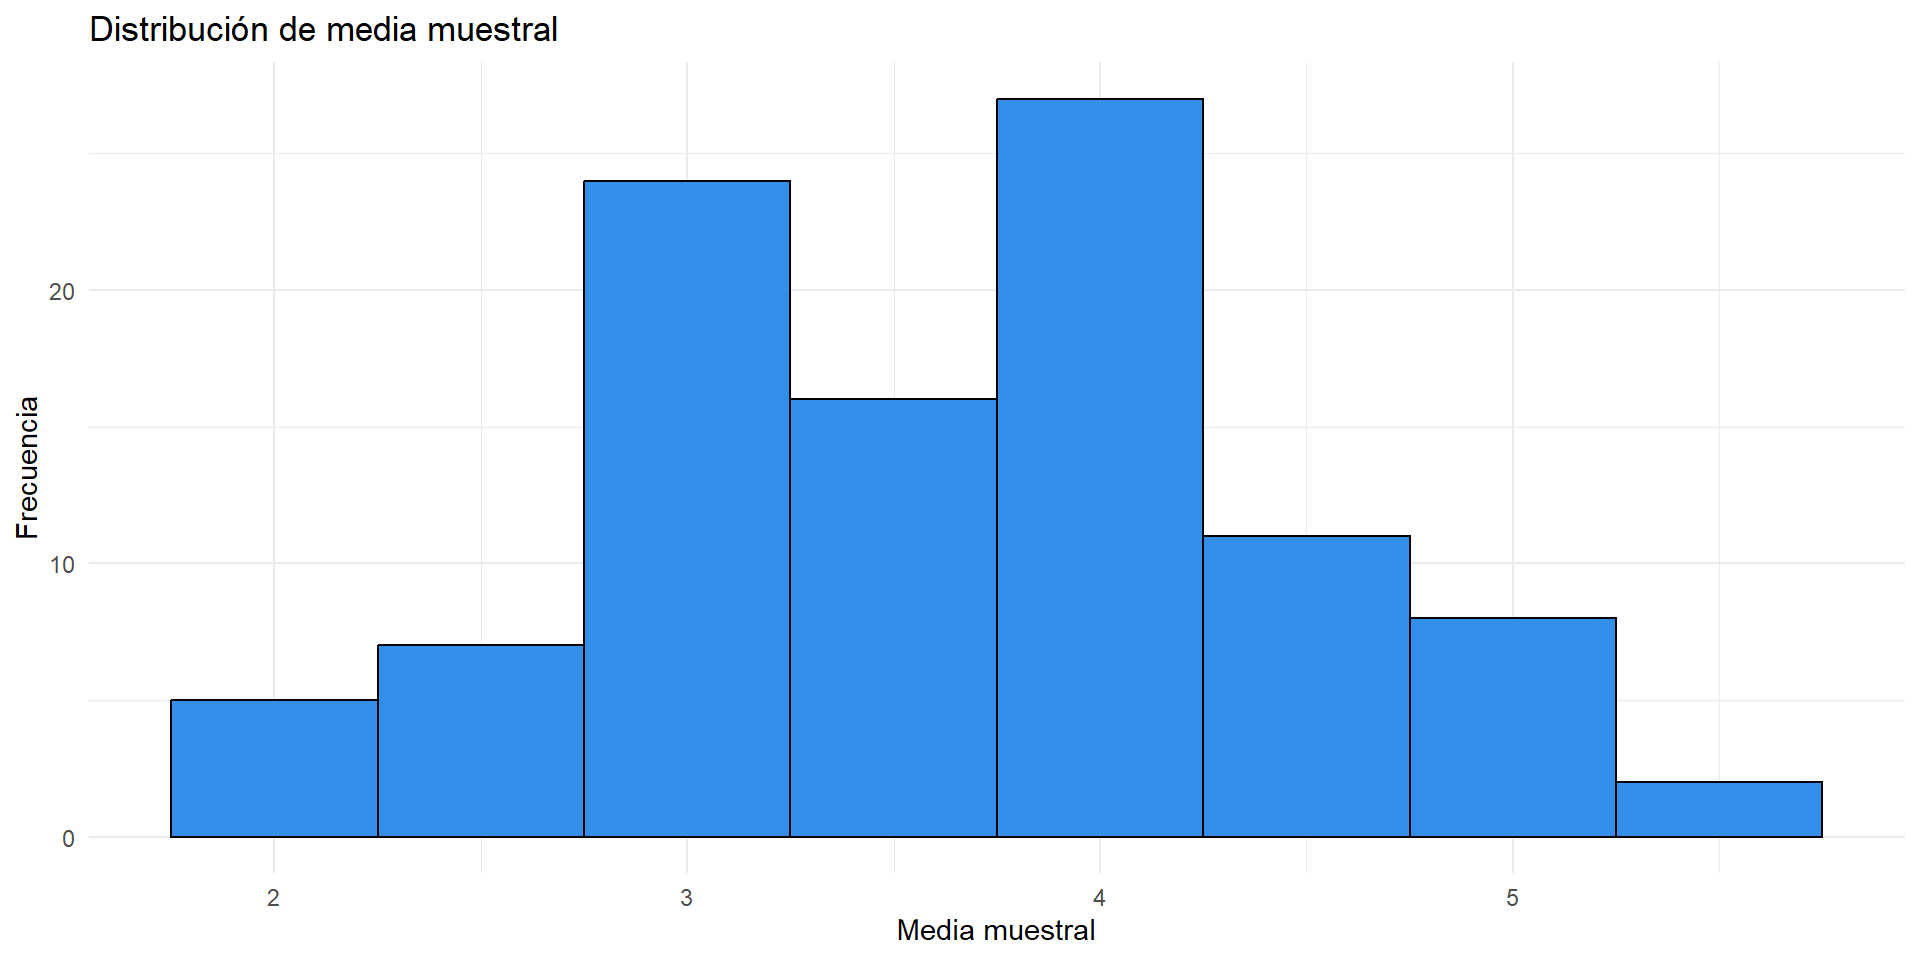
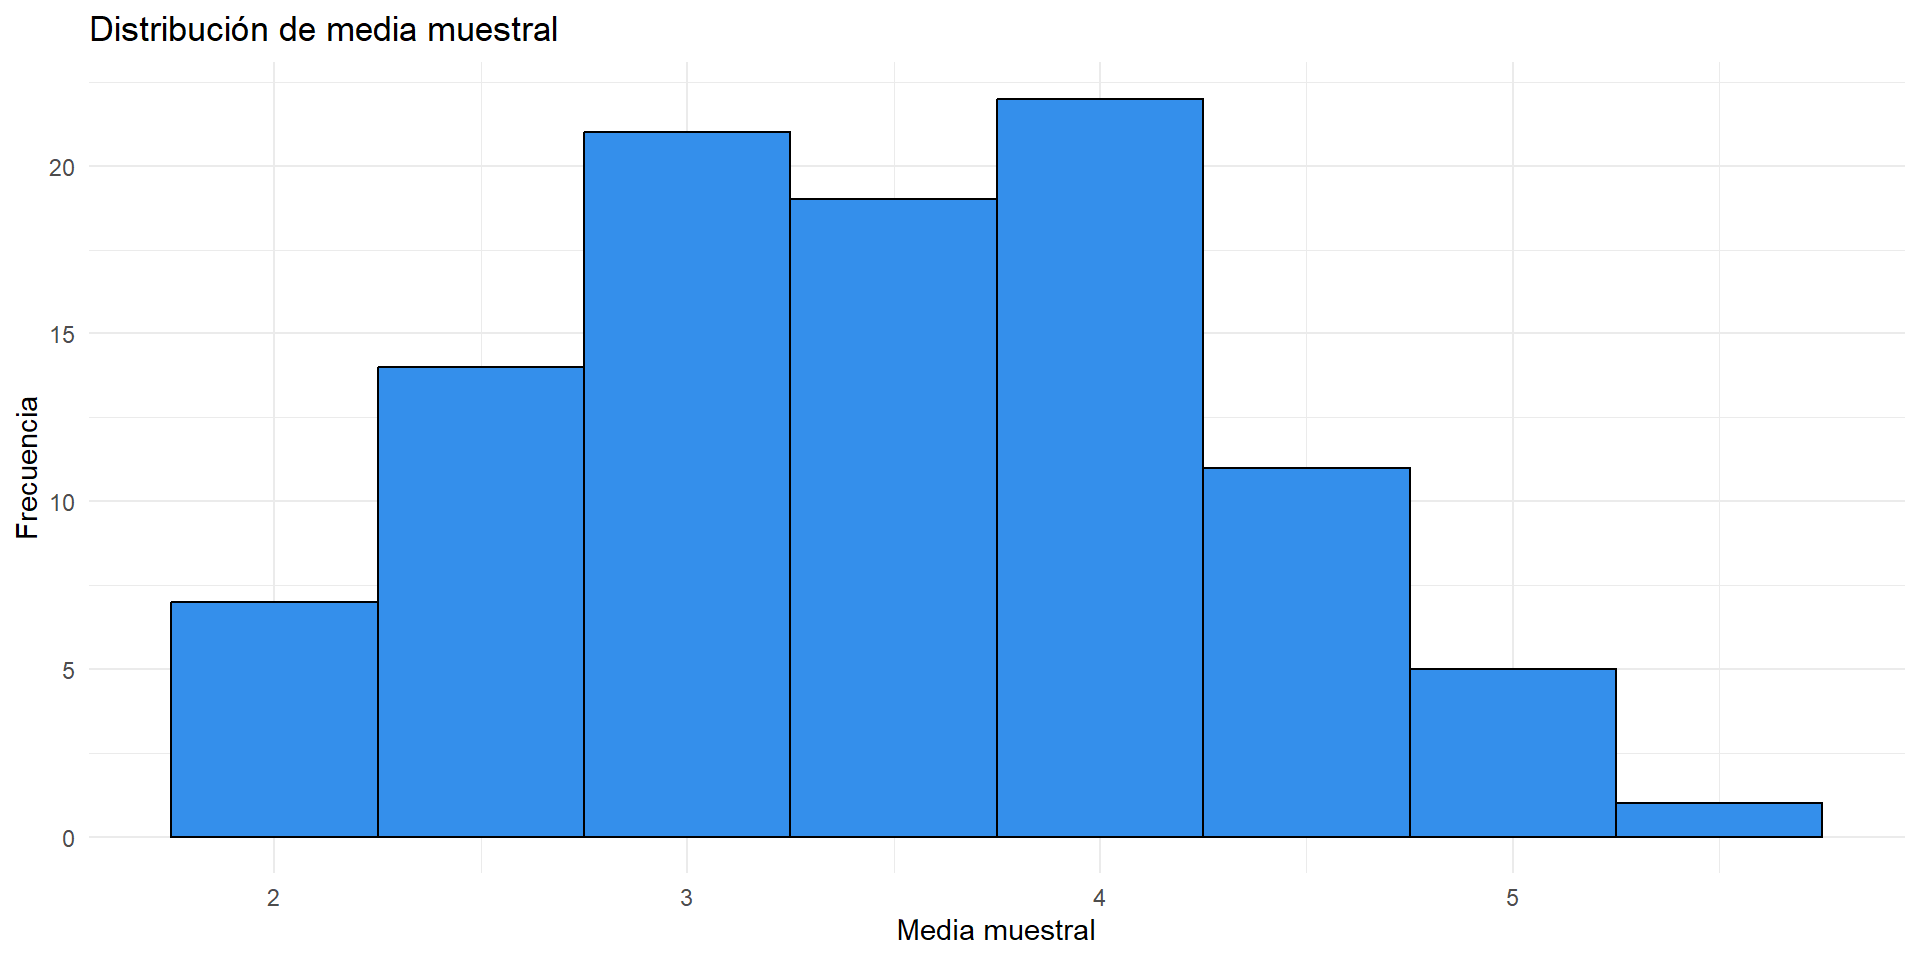
Changing zdistribution to jpg

diff --git a/clase4/prob_zscore.html b/clase4/prob_zscore.html
@@ -637,7 +637,7 @@ Probabilidad, Z-Score y Distribuciones Muestrales
 <div class="column" style="width:50%;">
 <div class="quarto-figure quarto-figure-center">
 <figure>
-<p><img data-src="images/zdistribution.png" style="width:90.0%;height:80.0%"></p>
+<p><img data-src="images/zdistribution.jpg" style="width:90.0%;height:80.0%"></p>
 </figure>
 </div>
 </div><div class="column" style="width:50%;">
@@ -772,18 +772,18 @@ Probabilidad, Z-Score y Distribuciones Muestrales
 <span id="cb1-7"><a href="#cb1-7"></a></span>
 <span id="cb1-8"><a href="#cb1-8"></a>muestra_de_5</span></code><button title="Copy to Clipboard" class="code-copy-button"><i class="bi"></i></button></pre></div>
 <div class="cell-output cell-output-stdout">
-<pre><code>[1] 4 3 2 3 5</code></pre>
+<pre><code>[1] 1 1 3 5 4</code></pre>
 </div>
 <div class="sourceCode cell-code" id="cb3"><pre class="sourceCode numberSource r number-lines code-with-copy"><code class="sourceCode r"><span id="cb3-1"><a href="#cb3-1"></a><span class="do">## Y calculemos su media</span></span>
 <span id="cb3-2"><a href="#cb3-2"></a><span class="fu">mean</span>(muestra_de_5)</span></code><button title="Copy to Clipboard" class="code-copy-button"><i class="bi"></i></button></pre></div>
 <div class="cell-output cell-output-stdout">
-<pre><code>[1] 3.4</code></pre>
+<pre><code>[1] 2.8</code></pre>
 </div>
 <div class="sourceCode cell-code" id="cb5"><pre class="sourceCode numberSource r number-lines code-with-copy"><code class="sourceCode r"><span id="cb5-1"><a href="#cb5-1"></a><span class="do">## Otra manera de calcular la media</span></span>
 <span id="cb5-2"><a href="#cb5-2"></a><span class="do">## de una muestra de 5</span></span>
 <span id="cb5-3"><a href="#cb5-3"></a><span class="fu">sample</span>(dado, <span class="dv">5</span>, <span class="at">replace =</span> <span class="cn">TRUE</span>) <span class="sc">%&gt;%</span> <span class="fu">mean</span>()</span></code><button title="Copy to Clipboard" class="code-copy-button"><i class="bi"></i></button></pre></div>
 <div class="cell-output cell-output-stdout">
-<pre><code>[1] 2.8</code></pre>
+<pre><code>[1] 3.4</code></pre>
 </div>
 </div>
 </div><div class="column" style="width:50%;">
@@ -807,17 +807,17 @@ Probabilidad, Z-Score y Distribuciones Muestrales
 <span id="cb7-7"><a href="#cb7-7"></a></span>
 <span id="cb7-8"><a href="#cb7-8"></a>muestra_de_5</span></code><button title="Copy to Clipboard" class="code-copy-button"><i class="bi"></i></button></pre></div>
 <div class="cell-output cell-output-stdout">
-<pre><code>[1] 3 2 5 5 3</code></pre>
+<pre><code>[1] 4 3 5 6 5</code></pre>
 </div>
 <div class="sourceCode cell-code" id="cb9"><pre class="sourceCode numberSource r number-lines code-with-copy"><code class="sourceCode r"><span id="cb9-1"><a href="#cb9-1"></a><span class="do">## Y calculemos su media</span></span>
 <span id="cb9-2"><a href="#cb9-2"></a><span class="fu">mean</span>(muestra_de_5)</span></code><button title="Copy to Clipboard" class="code-copy-button"><i class="bi"></i></button></pre></div>
 <div class="cell-output cell-output-stdout">
-<pre><code>[1] 3.6</code></pre>
+<pre><code>[1] 4.6</code></pre>
 </div>
 <div class="sourceCode cell-code" id="cb11"><pre class="sourceCode numberSource r number-lines code-with-copy"><code class="sourceCode r"><span id="cb11-1"><a href="#cb11-1"></a><span class="do">## Otra manera de calcular la media de una muestra de 5</span></span>
 <span id="cb11-2"><a href="#cb11-2"></a><span class="fu">sample</span>(dado, <span class="dv">5</span>, <span class="at">replace =</span> <span class="cn">TRUE</span>) <span class="sc">%&gt;%</span> <span class="fu">mean</span>()</span></code><button title="Copy to Clipboard" class="code-copy-button"><i class="bi"></i></button></pre></div>
 <div class="cell-output cell-output-stdout">
-<pre><code>[1] 4.8</code></pre>
+<pre><code>[1] 3</code></pre>
 </div>
 </div>
 </section>
